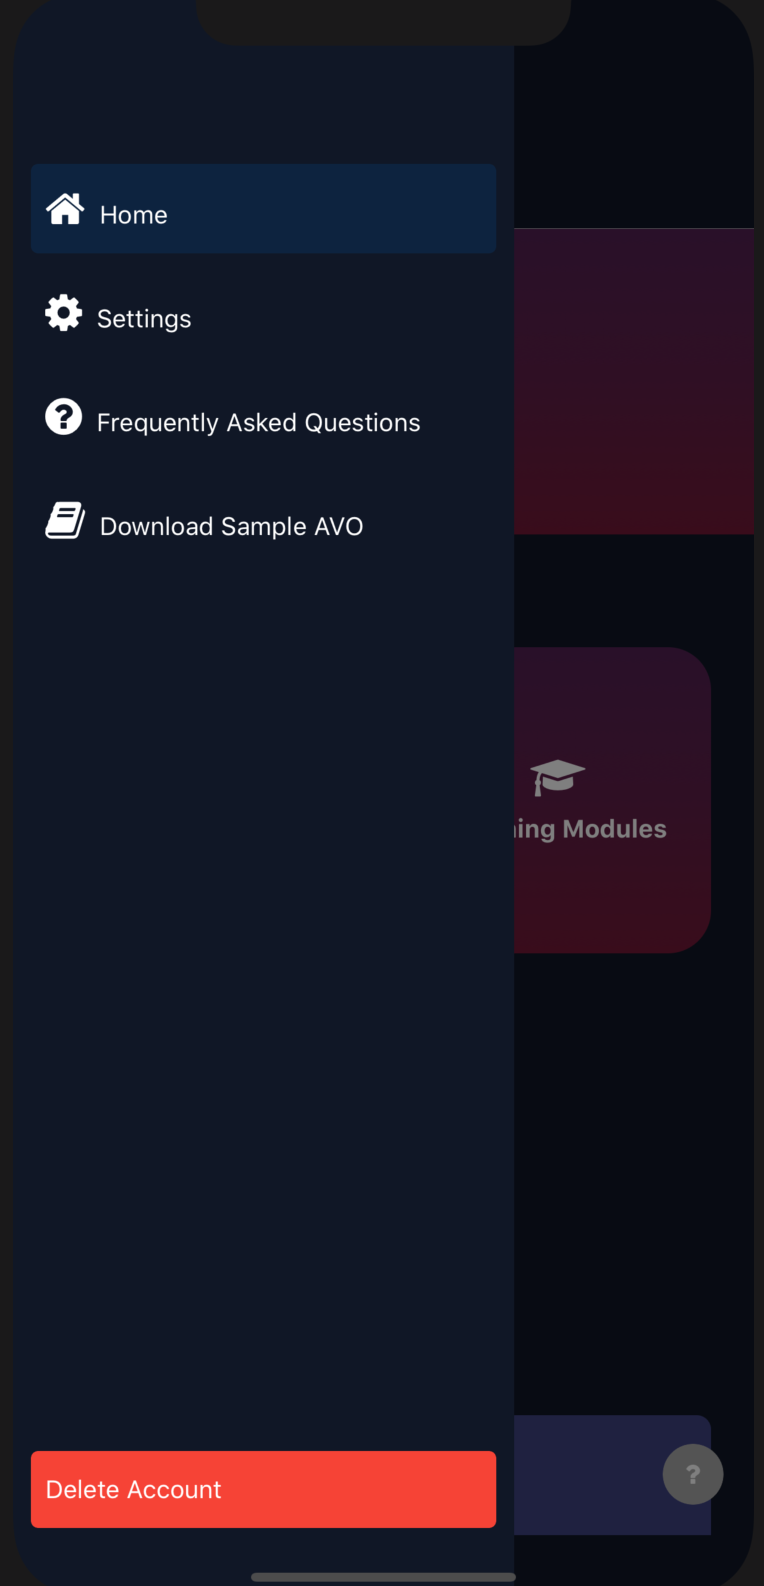
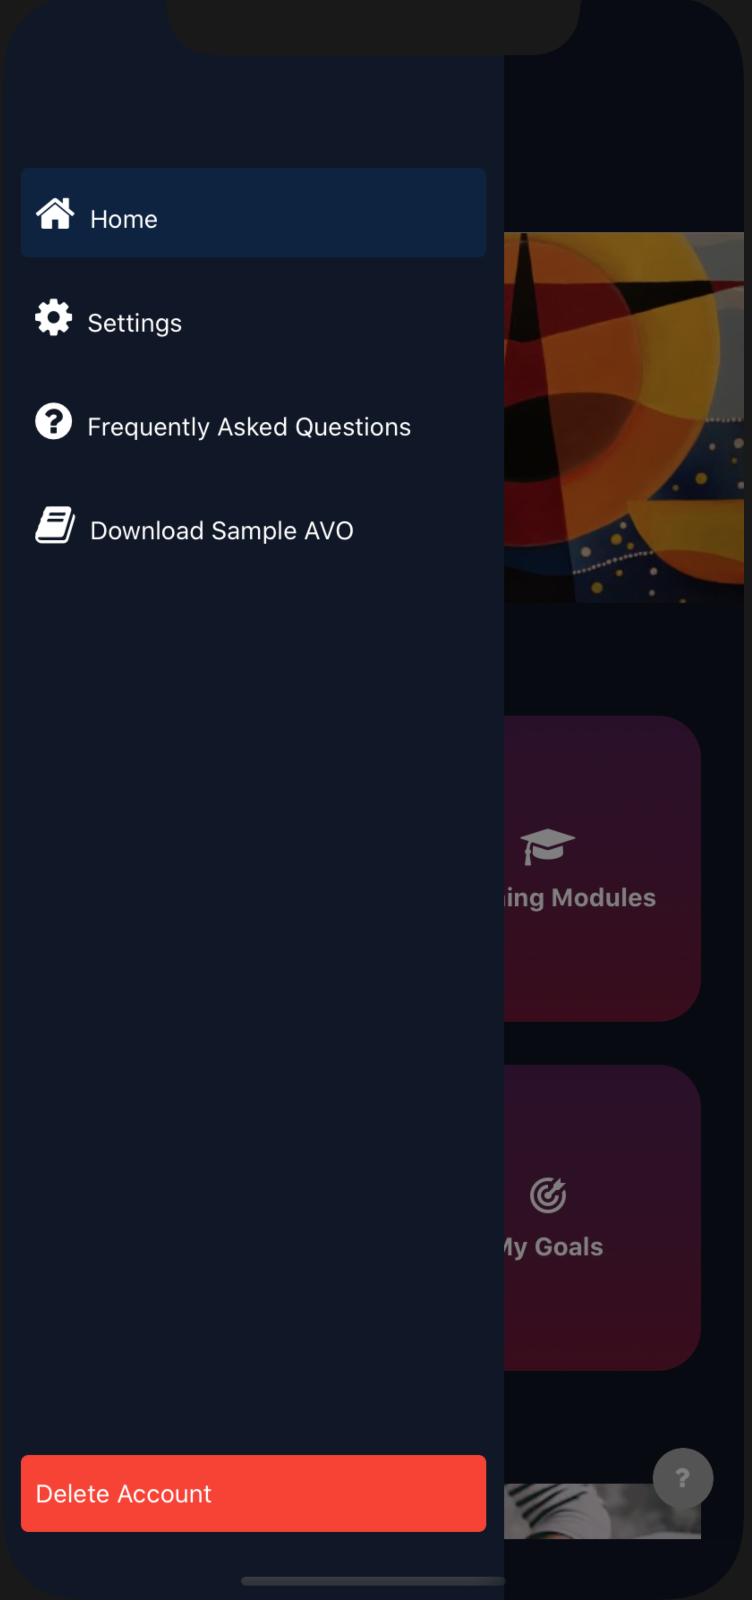
tutorial updated

diff --git a/src/components/CustomOnboarding.tsx b/src/components/CustomOnboarding.tsx
@@ -12,6 +12,7 @@ import { Onbording_first } from "images/Images";
 import { Onbording_second } from "images/Images";
 import { Onbording_third } from "images/Images";
 import { Onbording_fourth } from "images/Images";
+import { Onbording_fifth } from "images/Images";
 import { Onbording_quick } from "images/Images";
 import { Onbording_menu_home } from "images/Images";
 import { Onboarding_menu_setting } from "images/Images";
@@ -38,30 +39,33 @@ const CustomOnboarding = (props) => {
 
   const PAGES = [
     {
-      title: <Text style ={{color :'white', fontWeight: 'bold', fontSize: 25, marginBottom: 10, marginTop: -35,}}>Hey!</Text>,
-      subtitle: <Text style ={{color :'white', fontWeight: 'bold', fontSize: 15}}>WELCOME to Juvenile AVO APP</Text>,
-      backgroundColor: '#101726',
-      image: <View style = {{alignContent: 'center'}}><Icon name="hand-peace-o" type="font-awesome" size={100} color="white" /></View> // prettier-ignore
+      title: <Text style ={{color :'white', fontWeight: 'bold', fontSize: 25, marginBottom: 10, marginTop: -35,}}>Welcome !</Text>,
+      subtitle: <Text style ={{color :'white', fontWeight: 'bold', fontSize: 15, margin: 10, textAlign: 'center'}}>This will give you tutorial for using the App briefly</Text>,
+      backgroundColor: '#631C47',
+      image: <View style = {{alignContent: 'center'}}><Text style = {{fontWeight: '900', fontSize: 45, color: "white", fontStyle: 'normal'}}> 
+      YAVOS
+    </Text></View> // prettier-ignore
+      //<Icon name="hand-peace-o" type="font-awesome" size={100} color="white" /> taken out as we need text as logo
     },
     {
         // <View style={{ height : PAGE_HEIGHT / 2 }}>
 
 
       title: <View style={{ height : PAGE_HEIGHT / 15 }}><Text style ={styles.head}>HomeDashboard</Text></View>,
-      backgroundColor: '#101726',
+      backgroundColor: '#631C47',
       image: <View>
                 <Image 
                   style = {styles.body}
                   source = {Onbording_first}
                 />
             </View>,
-      subtitle: <Text style ={styles.bottom}>Homedashboard is where you can find AVO information, Learning Moduels, Support page and articles of the day.</Text>,
+      subtitle: <Text style ={styles.bottom}> This is Homedashboard where you can find AVO information, Learning Moduels, Support page, Goals and articles of the day.</Text>,
 
       //image: <Icon name="paper-plane-o" type="font-awesome" size={100} color="white" /> //prettier-ignore
     },
     {
       title: <View><Text style ={styles.head}>My AVO</Text></View>,
-      backgroundColor: '#101726',
+      backgroundColor: '#631C47',
       image: <View>
                 <Image 
                   style = {styles.body}
@@ -72,7 +76,7 @@ const CustomOnboarding = (props) => {
     },
     {
       title: <View><Text style ={styles.head}>Learning Module</Text></View>,
-      backgroundColor: '#101726',
+      backgroundColor: '#631C47',
       image: <View>
                 <Image 
                   style = {styles.body}
@@ -83,18 +87,29 @@ const CustomOnboarding = (props) => {
     },
     {
       title: <View><Text style ={styles.head}>Support</Text></View>,
-      backgroundColor: '#101726',
+      backgroundColor: '#631C47',
       image: <View>
                 <Image 
                   style = {styles.body}
                   source = {Onbording_fourth}
                 />
             </View>,
-      subtitle: <Text style ={styles.bottom}>In Support page, you can see three different support pages you can ask help for and you can also visit thier site to have information and it has a function to call them directly on your own device.</Text>,
+      subtitle: <Text style ={styles.bottom}>In Support page, you can see many different support pages you can ask help for and you can also visit thier site to have information and it has a function to call them directly on your own device.</Text>,
     },
     {
-      title: <View><Text style ={[styles.head, {bottom: 520}]}>Quick Help</Text></View>,
-      backgroundColor: '#101726',
+      title: <View><Text style ={styles.head}>My Goals</Text></View>,
+      backgroundColor: '#631C47',
+      image: <View>
+                <Image 
+                  style = {styles.body}
+                  source = {Onbording_fifth}
+                />
+            </View>,
+      subtitle: <Text style ={styles.bottom}> You can set your goals in there and see completed goals and dropped goals</Text>,
+    },
+    {
+      title: <View><Text style ={[styles.head, {bottom: 500}]}>Quick Help</Text></View>,
+      backgroundColor: '#631C47',
       image: <View>
                 <Image 
                   style = {[styles.body, {}]}
@@ -105,7 +120,7 @@ const CustomOnboarding = (props) => {
     },
     {
       title: <View><Text style ={styles.head}>Home in Hamburger menu</Text></View>,
-      backgroundColor: '#101726',
+      backgroundColor: '#631C47',
       image: <View>
                 <Image 
                   style = {styles.body}
@@ -116,7 +131,7 @@ const CustomOnboarding = (props) => {
     },
     {
       title: <View><Text style ={styles.head}>Settings in Hamburger menu</Text></View>,
-      backgroundColor: '#101726',
+      backgroundColor: '#631C47',
       image: <View>
                 <Image 
                   style = {styles.body}
@@ -127,7 +142,7 @@ const CustomOnboarding = (props) => {
     },
     {
       title: <View><Text style ={styles.head}>FAQ in Hamburger menu</Text></View>,
-      backgroundColor: '#101726',
+      backgroundColor: '#631C47',
       image: <View>
                 <Image 
                   style = {styles.body}
@@ -137,8 +152,8 @@ const CustomOnboarding = (props) => {
       subtitle: <Text style ={styles.bottom}>There is FAQ(Frequently Asked Questions) menu you can check. </Text>,
     },
     {
-      title: <View><Text style ={styles.head}>Sample AVO and Delete Account</Text></View>,
-      backgroundColor: '#101726',
+      title: <View><Text style ={styles.head}>Sample AVO / Delete Account</Text></View>,
+      backgroundColor: '#631C47',
       image: <View>
                 <Image 
                   style = {styles.body}
@@ -151,7 +166,7 @@ const CustomOnboarding = (props) => {
 
 
     {
-      title: "That's Enough",
+      title: <View><Text style = {{ color: 'white', fontWeight: 'bold', fontSize: 15, bottom: 20}}>YAVOS is ready for you now !</Text></View>,
       subtitle: (
         <Button
           title="Get Started"
@@ -161,8 +176,12 @@ const CustomOnboarding = (props) => {
           }}
         />
       ),
-      backgroundColor: '#101726',
-      image: <Icon name="rocket" type="font-awesome" size={100} color="white" /> //prettier-ignore
+      backgroundColor: '#631C47',
+      image: <View style = {{alignContent: 'center'}}><Text style = {{fontWeight: '900', fontSize: 45, color: "white", fontStyle: 'normal'}}> 
+      YAVOS
+    </Text></View> //prettier-ignore
+
+      // <Icon name="rocket" type="font-awesome" size={100} color="white" /> // Icon has been taken out as we need to use text for logo 
     },
   ];
 
@@ -189,21 +208,21 @@ const styles = StyleSheet.create({
   head: {
     color :'white', 
     fontWeight: 'bold',
-    fontSize: 25, 
+    fontSize: 30, 
     textAlign: 'center',
     bottom: 500,
   }, 
   body: {
     width: 300, 
     height: 400,
-    bottom: 10, 
+    bottom: -25, 
     resizeMode: 'contain',  
   },
   bottom: {
     color :'white', 
     fontWeight: 'bold', 
-    fontSize: 15,
-    bottom: 80,
+    fontSize: 17,
+    bottom: 60,
     padding: 10,
   },
 

diff --git a/src/images/Images.tsx b/src/images/Images.tsx
@@ -7,15 +7,18 @@ export const IC_ARR_UP = require("images/arrow-up.png");
 export const SAMPLE_AVO = require("images/sample-avo.png");
 export const QUICK_HELP_ALARM = require("images/alarm.png");
 export const QUICK_HELP_QUESTION = require("images/question.png");
-export const Onbording_first = require("images/first.png");
-export const Onbording_second = require("images/second.png");
-export const Onbording_third = require("images/third.png");
-export const Onbording_fourth = require("images/fourth.png");
+//********** tutorial Onboarding ************
+export const Onbording_first = require("images/1.png");
+export const Onbording_second = require("images/2.png");
+export const Onbording_third = require("images/3.png");
+export const Onbording_fourth = require("images/4.png");
+export const Onbording_fifth = require("images/5.png"); // needs to be added 
 export const Onbording_quick = require("images/Onboarding_quick.png");
 export const Onbording_menu_home = require("images/Onboarding_menu_home.png");
 export const Onboarding_menu_setting = require("images/Onboarding_menu_setting.png");
 export const Onboarding_menu_FAQ = require("images/Onboarding_menu_FAQ.png");
 export const Onboarding_Sample = require("images/Sample.png");
+//*******************************************
 export const CHATBOT = require("images/chatbot.png");
 export const HOME_BACKGROUND = require("images/background.jpg");
 export const HOTLINE = require("images/YouthHotline.png");
